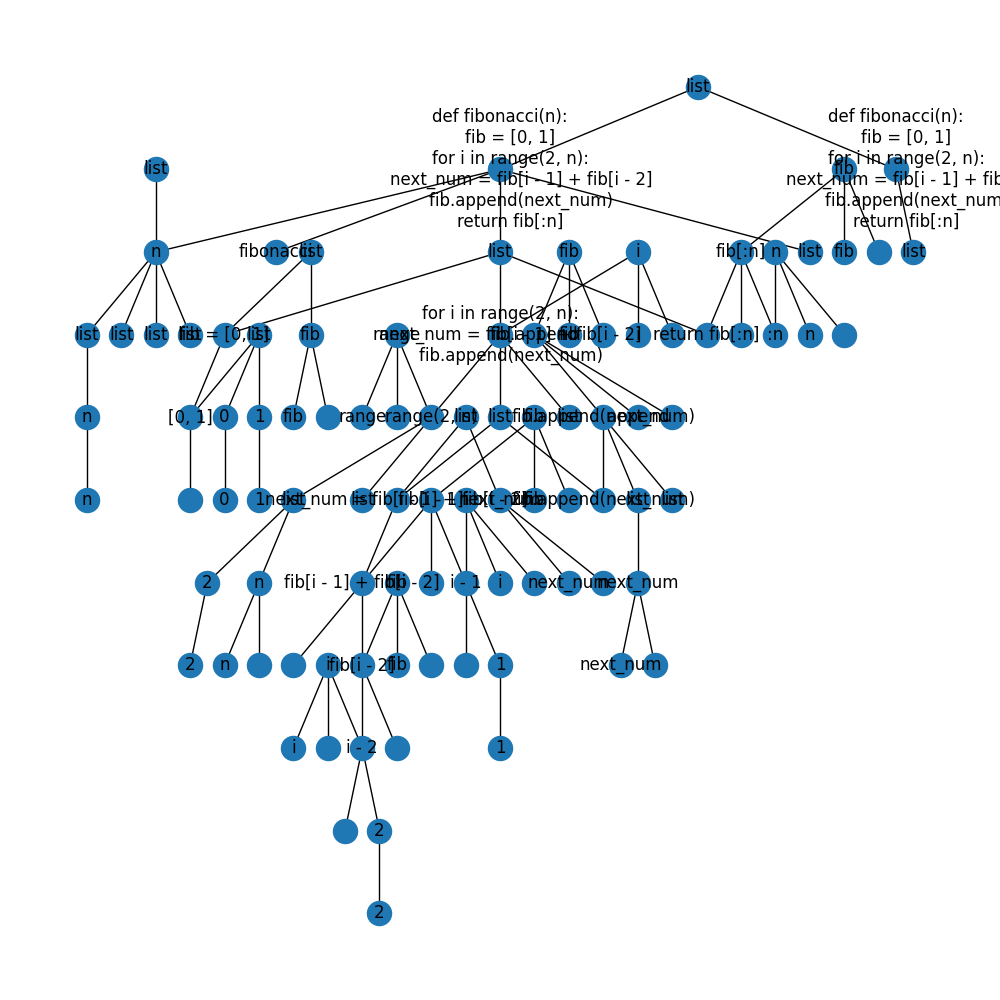
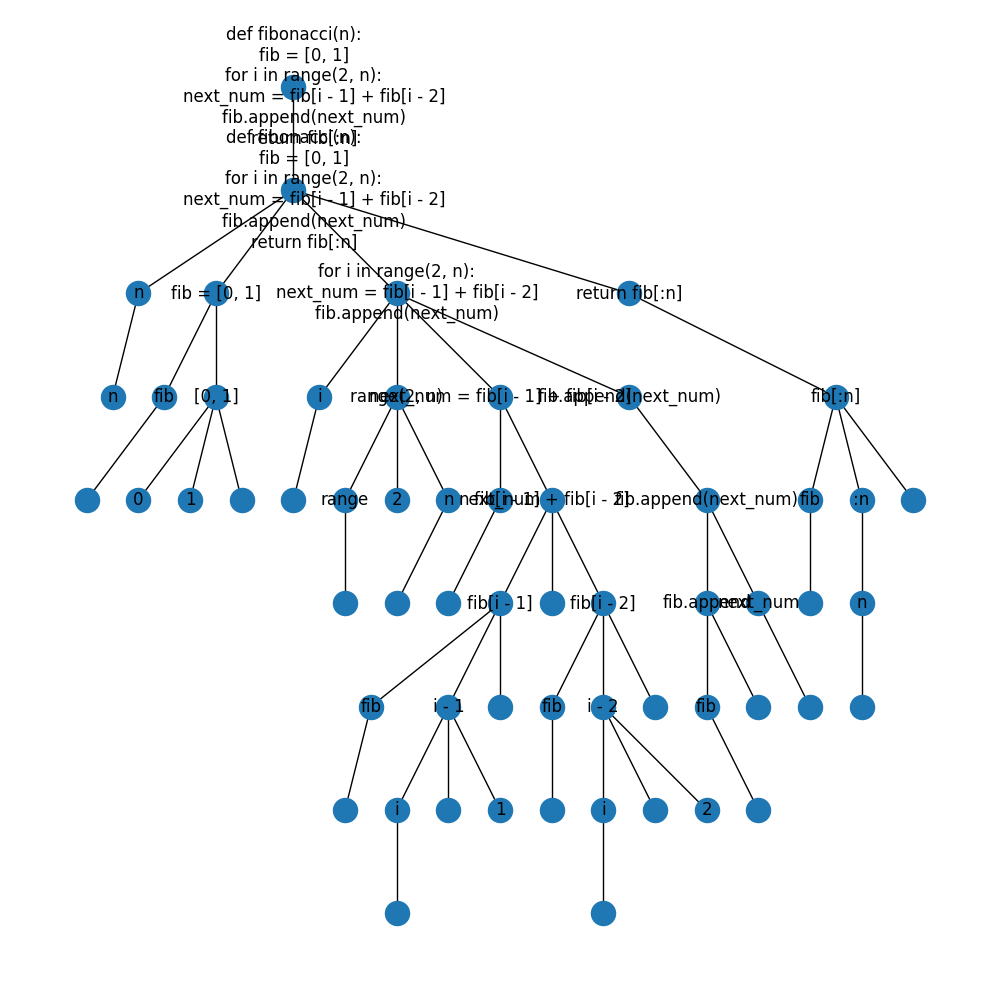
updated dfs_graph

diff --git a/hw01/ast_tree.py b/hw01/ast_tree.py
@@ -1,33 +1,28 @@
 import ast
-import astunparse
+import networkx as nx
+import matplotlib.pyplot as plt
+
 
 class AstGraph:
-    num = 0
-    labels_list = {}
+    def __init__(self):
+        self.G = nx.Graph()
+        self.node_cnt = 0
+        self.labels_list = {}
 
-    def dfs_graph(self, G, ast_object):
-        if isinstance(ast_object, list):
-            G.add_node(self.num)
-            self.labels_list[self.num] = 'list'
+    def dfs_graph(self, node):
+        self.G.add_node(self.node_cnt)
+        self.labels_list[self.node_cnt] = ast.unparse(node)
+        cur_num = self.node_cnt
+        self.node_cnt += 1
 
-            cur_num = self.num
-            self.num += 1
-            for i in ast_object:
-                G.add_edge(cur_num, self.dfs_graph(G, i))
-                self.num += 1
-            return cur_num
+        for ch in ast.iter_child_nodes(node):
+            self.G.add_edge(cur_num, self.dfs_graph(ch))
+        return cur_num
 
-        elif isinstance(ast_object, ast.AST):
-            self.labels_list[self.num] = ast.unparse(ast_object)
-            cur_num = self.num
-            self.num += 1
-            for elem in ast_object._fields:
-                attr = ast_object.__getattribute__(elem)
-                if attr is not None:
-                    G.add_edge(cur_num, self.dfs_graph(G, attr))
-            return cur_num
-        else:
-            self.labels_list[self.num] = str(ast_object)
-            cur_num = self.num
-            self.num += 1
-            return cur_num
+    def draw_graph(self):
+        plt.figure(0, (10, 10))
+        nx.draw(self.G,
+                nx.drawing.nx_agraph.graphviz_layout(self.G, prog="dot"),
+                with_labels=True,
+                labels=self.labels_list)
+        plt.show()

diff --git a/hw01/main.py b/hw01/main.py
@@ -1,21 +1,17 @@
-import networkx as nx
 import ast
-import matplotlib.pyplot as plt
-import ast_tree
+from ast_tree import AstGraph
 
-f = open('fibonacci_func.py', 'r')
-ast_object = ast.parse(f.read())
 
-#print(ast.dump(ast_object))
-#print(ast_object._fields)
-# print(ast.unparse(ast_object))
+def main():
+    # create ast from file
+    f = open('fibonacci_func.py', 'r')
+    ast_object = ast.parse(f.read())
 
-G = nx.Graph()
-graph = ast_tree.AstGraph()
-graph.dfs_graph(G, ast_object)
-plt.figure(0, (10, 10))
-nx.draw(G,
-        nx.drawing.nx_agraph.graphviz_layout(G, prog="dot"),
-        with_labels=True,
-        labels=graph.labels_list)
-plt.show()
+    # create graph
+    ast_graph = AstGraph()
+    ast_graph.dfs_graph(ast_object)
+    ast_graph.draw_graph()
+
+
+if __name__ == '__main__':
+    main()

diff --git a/hw01/fibonacci_func.py b/hw01/fibonacci_func.py
@@ -1,6 +1,6 @@
 def fibonacci(n):
     fib = [0, 1]
-    for i in range(2, n):
+    for i in range(2, n + 1):
         next_num = fib[i - 1] + fib[i - 2]
         fib.append(next_num)
     return fib[:n]
